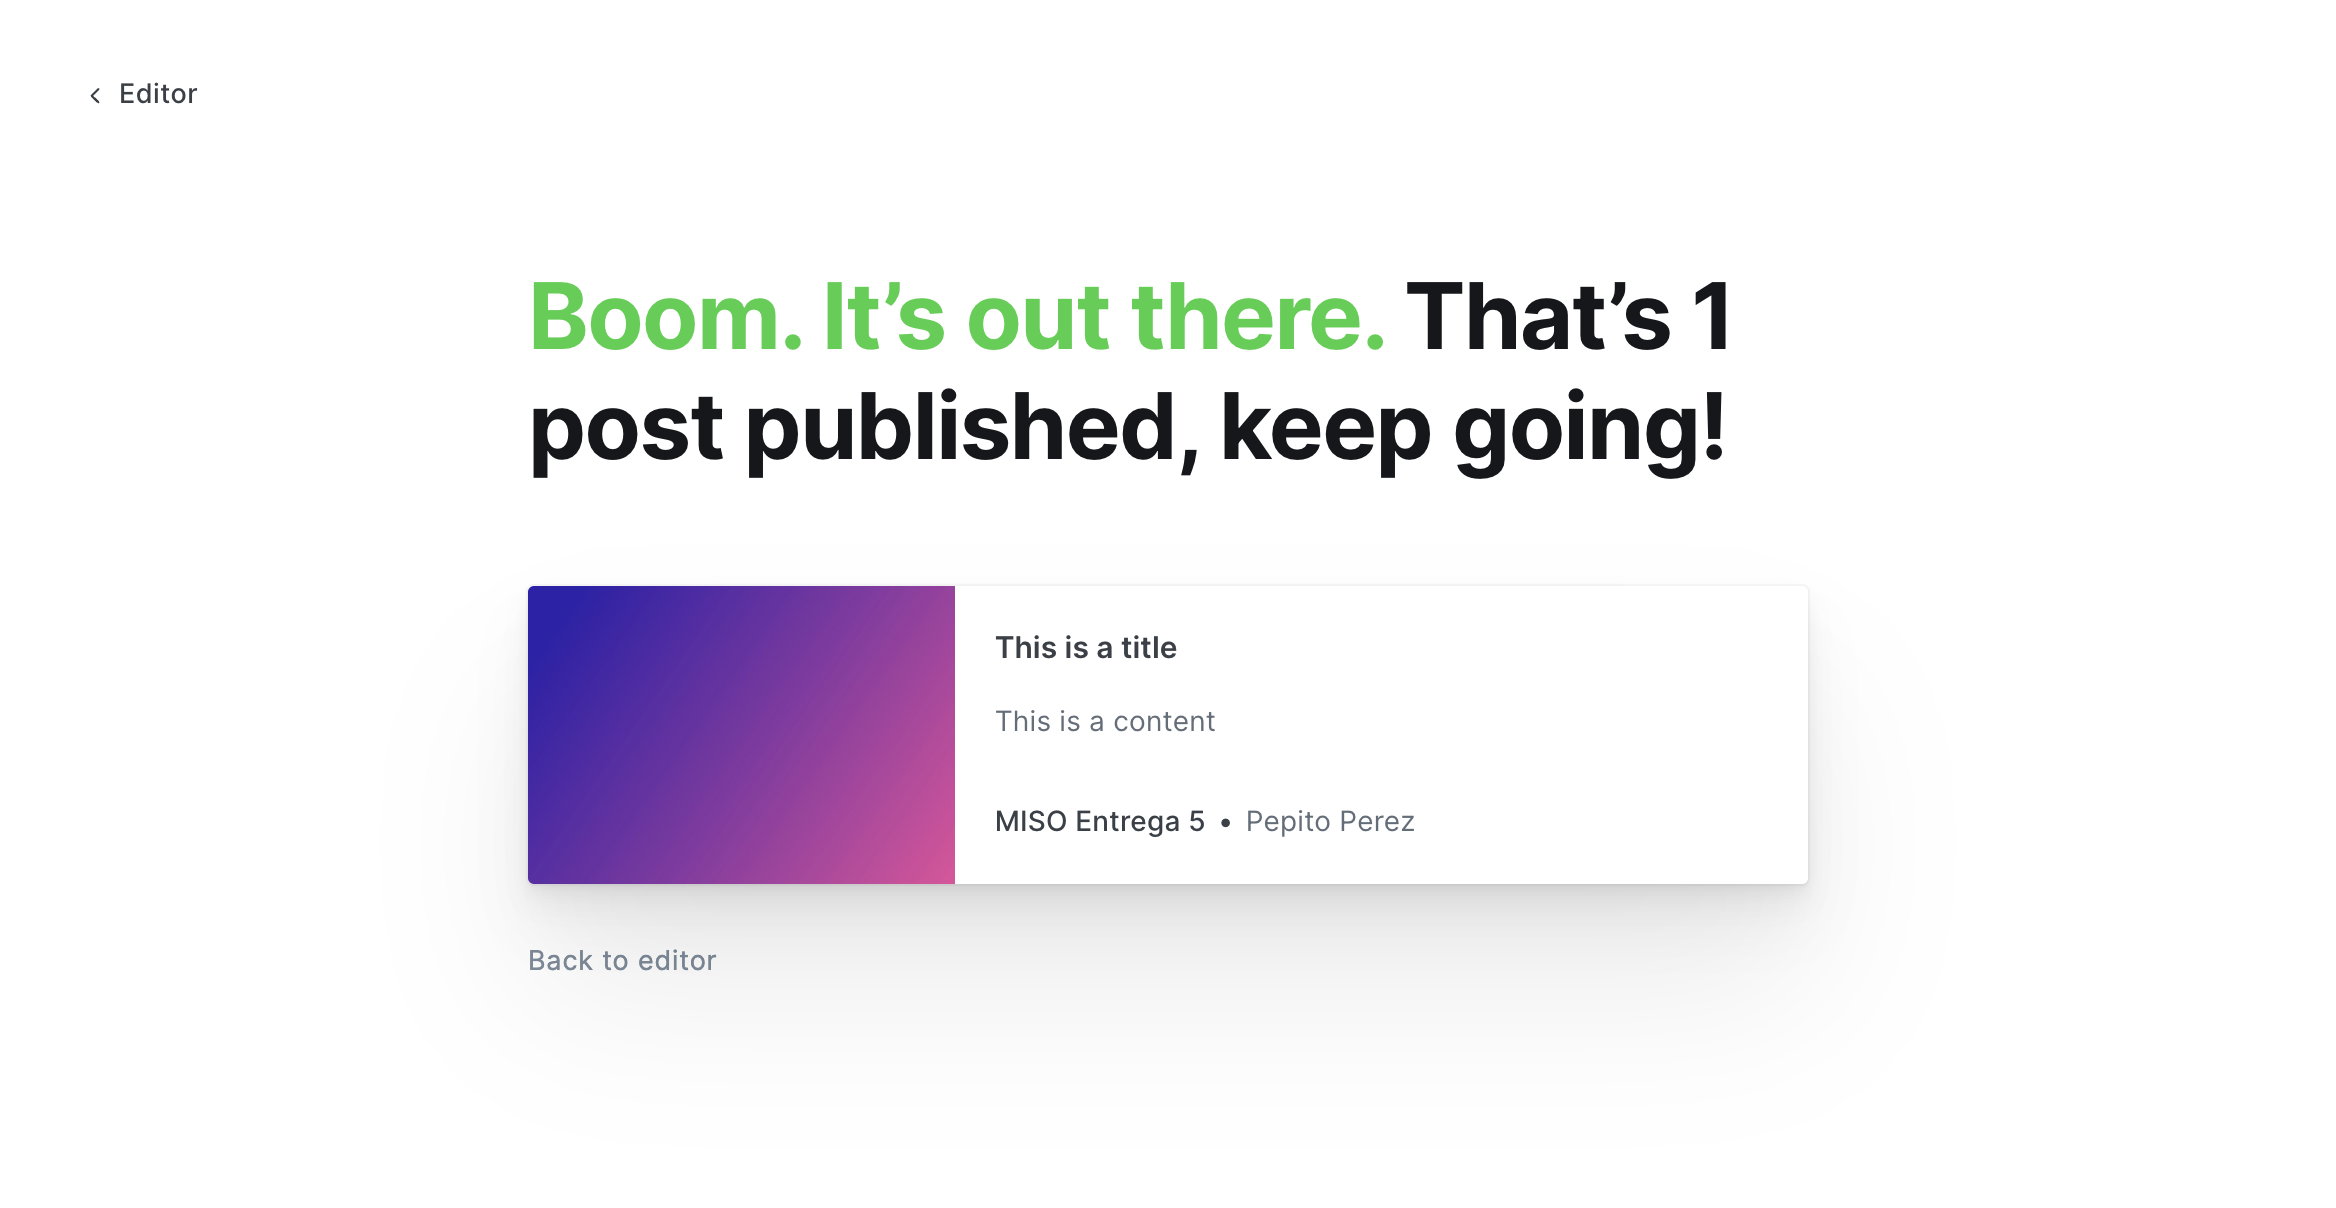
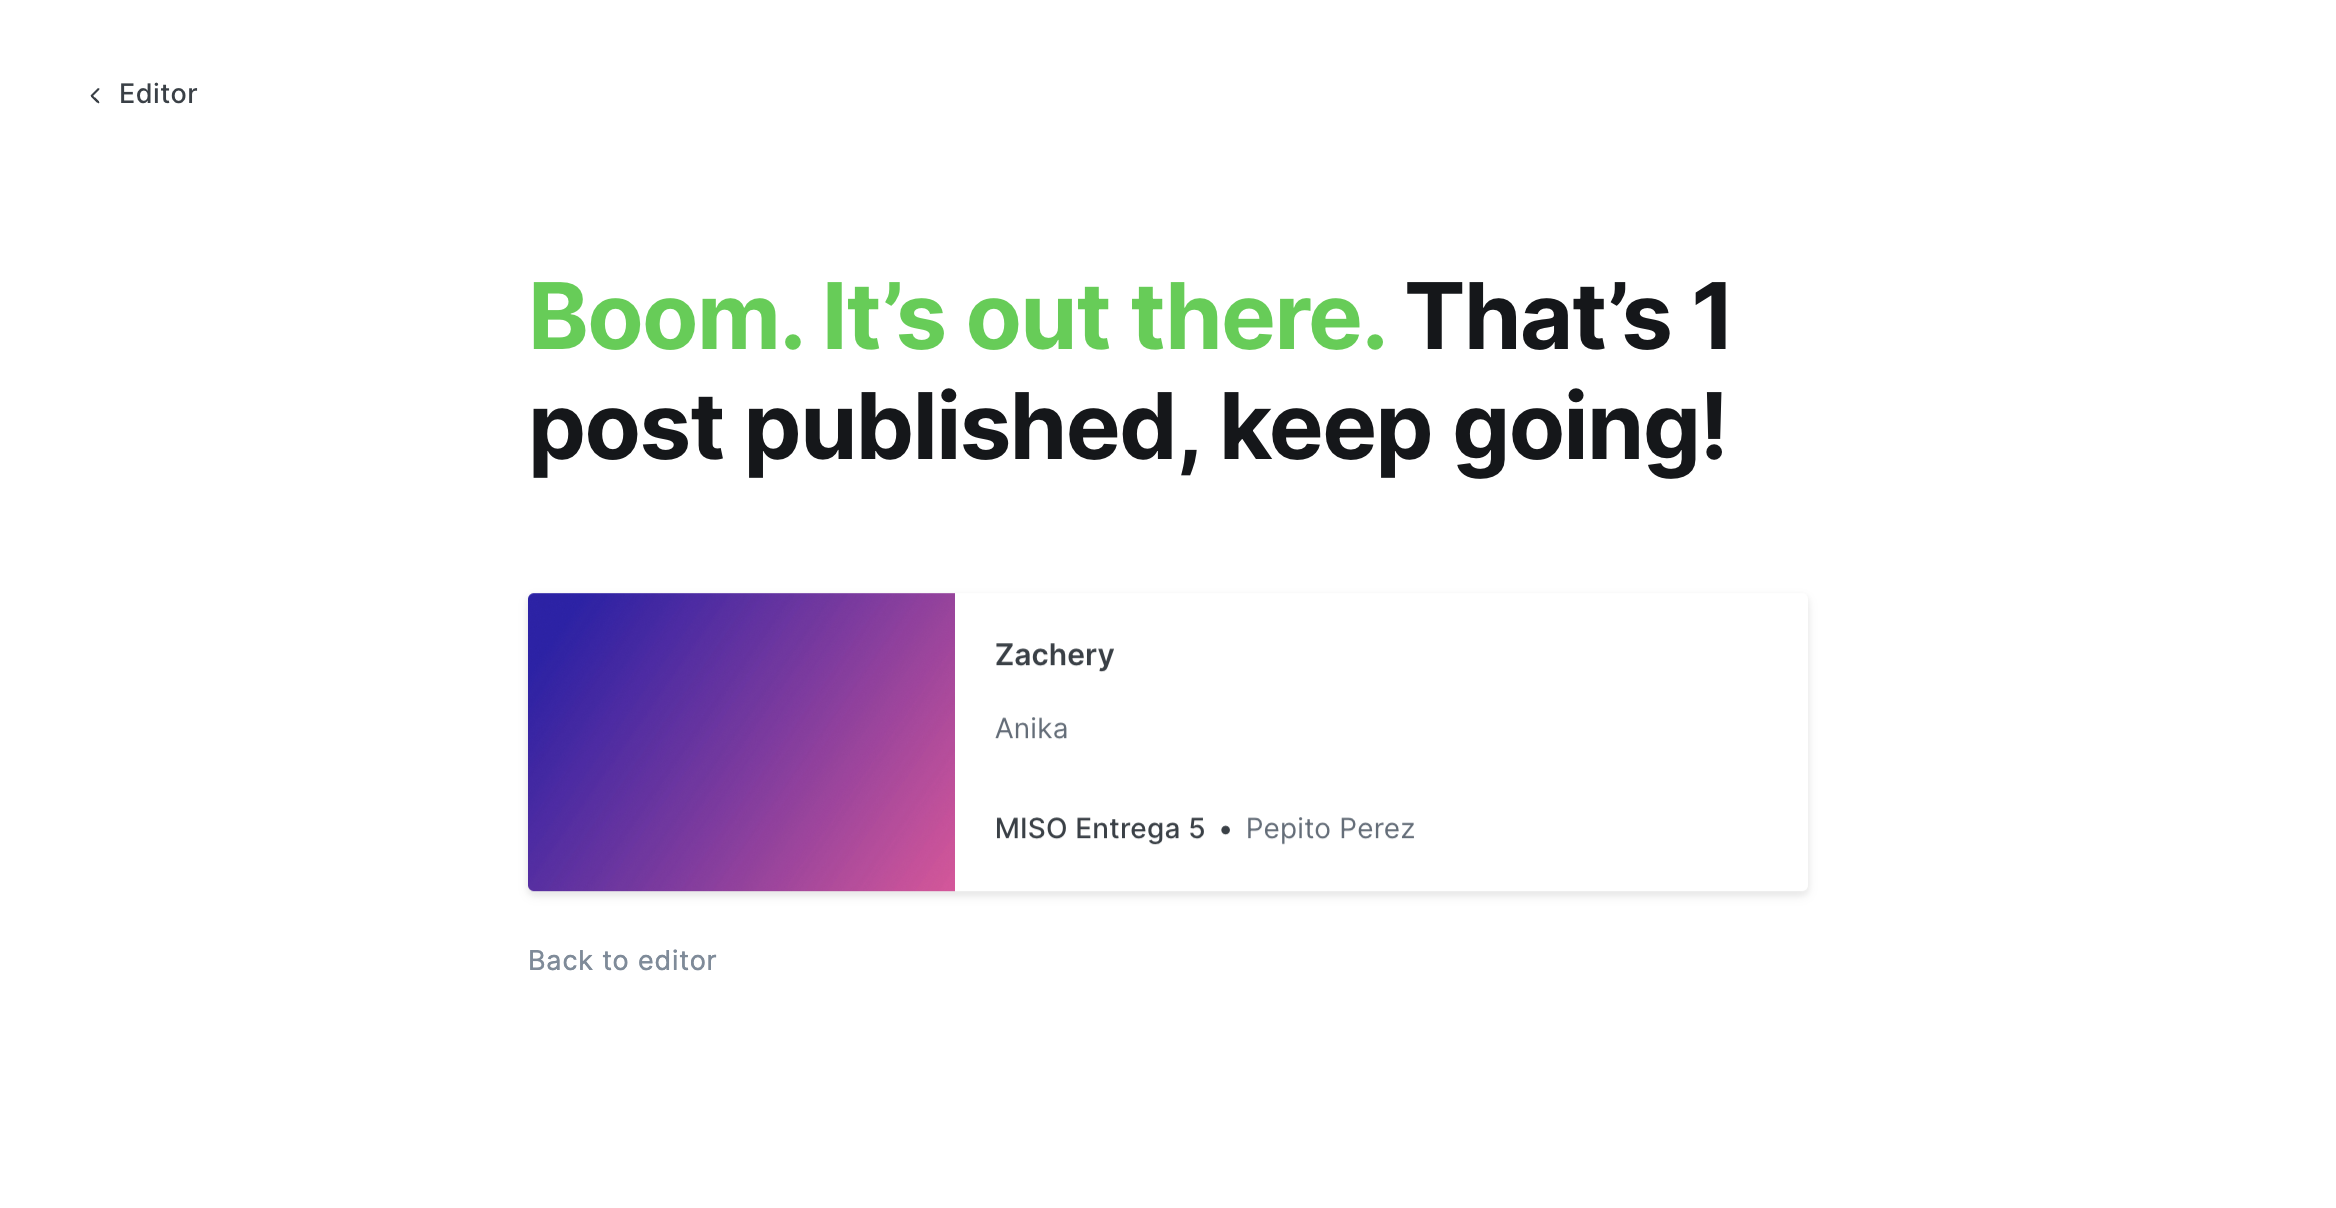
Validacion exitosa 23 casos iniciales con apriori y faker para escenarios de gestion pages y posts

diff --git a/kraken/features/web/step_definitions/step.js b/kraken/features/web/step_definitions/step.js
@@ -52,6 +52,16 @@ Then('I can NOT save or update posts', async function () {
     return;
 });
 
+Then('I can NOT save or update pages', async function () {
+    let element = await this.driver.$('[data-test-editor-title-input]');
+    try{
+        expect(element).to.not.exist;
+    } catch (error) {
+        console.log("La prueba falló debido a que el elemento no debería existir, pero fue encontrado.", error.message);
+    }
+    return;
+});
+
 When('I set the post content {kraken-string}', async function (content) {
     let element = await this.driver.$('.kg-prose');
     return await element.setValue(content);
